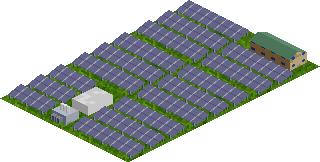
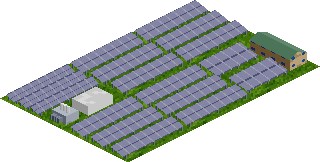
Tilt the solar panels towards the light
Since #76 the light comes from the lower right of the screen, but the
solar panels still tilted towards the lower left (south-west), away
from it. solar_rows now runs the rows along x and tilts each panel
towards +y (south-east, screen lower right). The supports are tall at
the back edge and short at the front, and the panel grid lines follow
the new row direction. Being lit, the panels now come out paler.

Regenerated the solar farm sheets (1x and 2x), the README preview,
the three solar annotated references and the GRF. Other sheets are
unchanged. tools/ingame_check.py passes.

Refs #61, #62, #63

Claude-Session: https://claude.ai/code/session_01BUnxRaarMMxg9k4SwR7B1i

diff --git a/tools/make_sprites.py b/tools/make_sprites.py
@@ -559,23 +559,23 @@ def service_track(cv, along_x=True, x0=0.0, x1=16.0):
 
 
 def solar_rows(cv, x0, x1, y0, y1, rows=3):
-    """Rows of tilted panels (facing SW / the light)."""
-    pitch = (x1 - x0) / rows
+    """Rows of tilted panels facing SE (+y, screen lower right), towards the light."""
+    pitch = (y1 - y0) / rows
     for k in range(rows):
-        xa = x0 + k * pitch + 0.8
+        ya = y0 + k * pitch + 0.8
         depth = pitch * 0.62
-        # supports
+        # supports: tall at the back (NW) edge, short at the front (SE) edge
         with cv.part("panel supports"):
-            for yy in (y0 + 0.5, (y0 + y1) / 2, y1 - 0.5):
-                cv.beam((xa + depth, yy, 0), (xa + depth, yy, 1.1), 0.3, M["steel_dark"])
-                cv.beam((xa, yy, 0), (xa, yy, 2.7), 0.3, M["steel_dark"])
+            for xx in (x0 + 0.5, (x0 + x1) / 2, x1 - 0.5):
+                cv.beam((xx, ya + depth, 0), (xx, ya + depth, 1.1), 0.3, M["steel_dark"])
+                cv.beam((xx, ya, 0), (xx, ya, 2.7), 0.3, M["steel_dark"])
         with cv.part("solar panels"):
-            cv.parallelogram((xa, y0, 3.0), (depth, 0, -1.9), (0, y1 - y0, 0), panel_mat)
+            cv.parallelogram((x0, ya, 3.0), (x1 - x0, 0, 0), (0, depth, -1.9), panel_mat)
 
 
 def _panel_pattern(p, n):
     # cell grid lines give the panels texture
-    if (p[1] % 2.0) < 0.22:
+    if (p[0] % 2.0) < 0.22:
         return 21
     if (p[2] % 1.0) < 0.12:
         return 131

diff --git a/docs/sprite_design_spec.md b/docs/sprite_design_spec.md
@@ -74,7 +74,7 @@ Brightness = `0.25 + 0.75 × max(0, N·L)`, mapped onto the material's ramp. Win
 
 **Still to check after the light change:**
 
-- **Solar panels:** they are still tilted to face the lower left (south-west). The `solar_rows` docstring says that is "the light", which is no longer true. Decide whether they should face the new light (issues #61–#63).
+- **Solar panels:** fixed. They now tilt to face the lower right (south-east), into the light. Because they are lit, they come out paler than before. Check that they still read as solar panels (#61–#63).
 - **Turbine blades:** they use fixed colours (`blade` and `edge` in `wind_turbine`), not the light. Check that they sit well next to the newly lit tower (#58).
 - **Cargo icons:** these are flat menu icons and keep their own shading. The Power icon's docstring still says "lit from the upper left" (#73).
 
